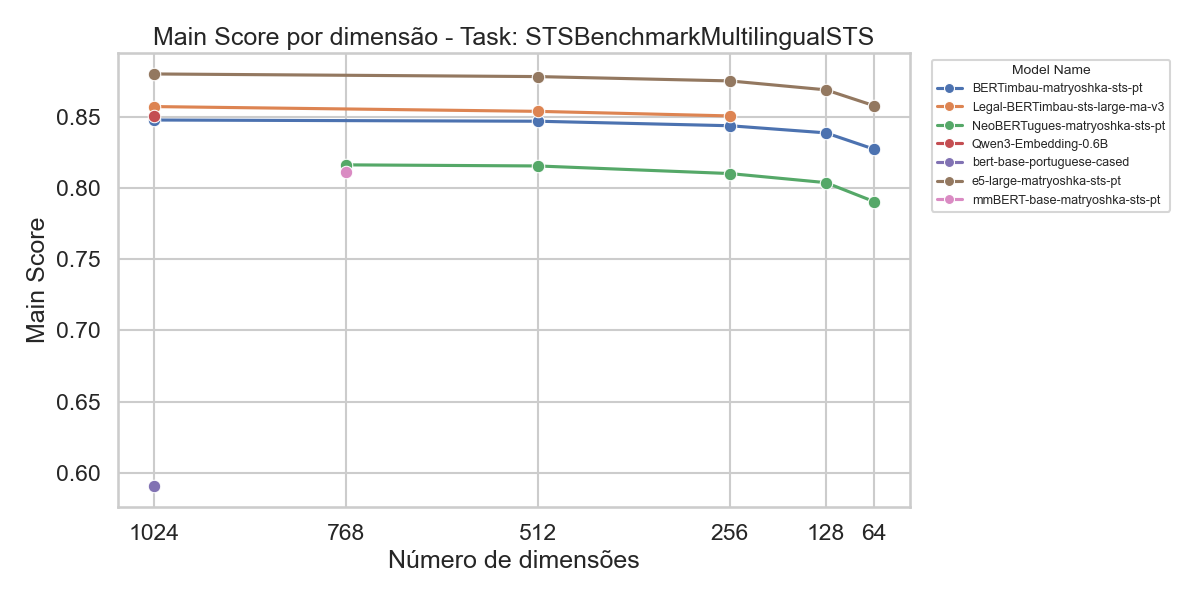
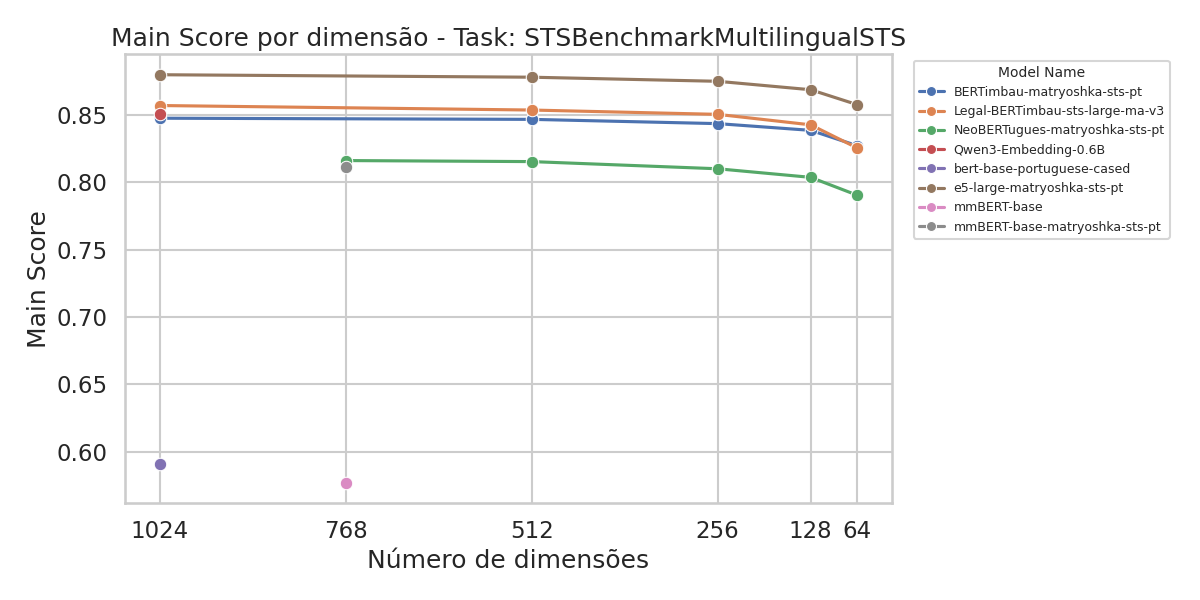
updated metrics

Changed region(s): [[0.0, 0.03, 0.9867, 0.96], [0.0, 0.45, 0.0308, 0.48]]

diff --git a/train_matryoshka.py b/train_matryoshka.py
@@ -16,10 +16,10 @@ load_dotenv()
 # 1. Configurações e Modelo
 logging.basicConfig(format="%(asctime)s - %(message)s", level=logging.INFO)
 
-model_name = "jhu-clsp/mmBERT-base"
+model_name = "iara-project/NeoBERTugues-simcse-pt-ckpt-1000"
 model_raw_name = model_name.split("/")[-1]
 matryoshka_dims = [768, 512, 256, 128, 64]
-batch_size = 4
+batch_size = 64
 
 model = SentenceTransformer(model_name)
 
@@ -149,7 +149,7 @@ args = SentenceTransformerTrainingArguments(
     save_strategy="steps",
     logging_steps=100,
     learning_rate=5e-5,
-    gradient_accumulation_steps=512//(batch_size*4),
+    gradient_accumulation_steps=512//batch_size,
     multi_dataset_batch_sampler="proportional",
     gradient_checkpointing=True, 
     gradient_checkpointing_kwargs={"use_reentrant": False},
